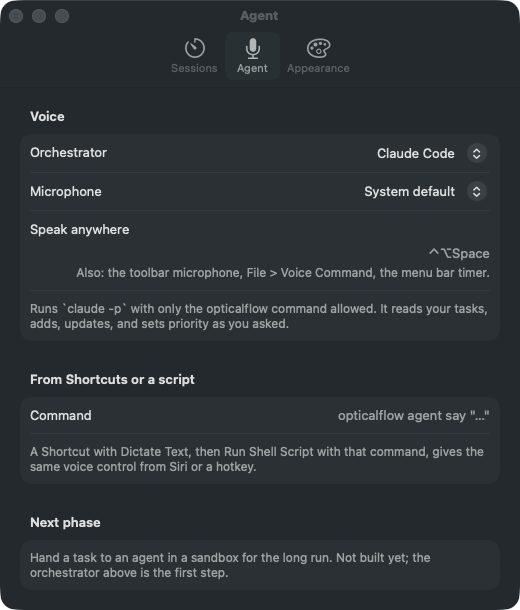
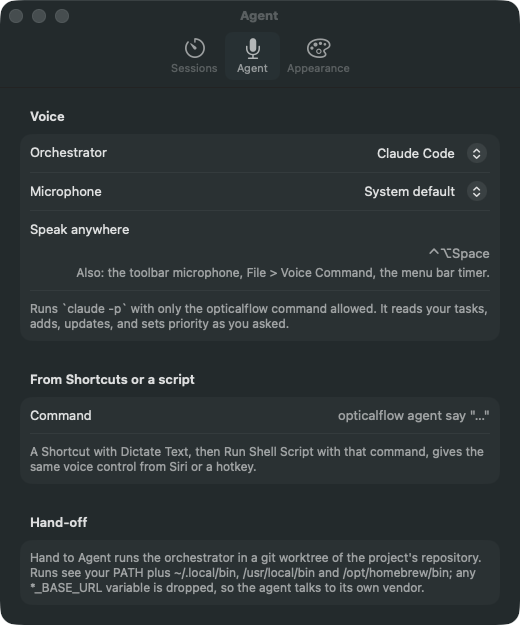
Agent runs talk to their own vendor: any *_BASE_URL exported for another tool is dropped; Settings > Agent describes the hand-off instead of promising it

diff --git a/Sources/OpticalFlow/VoiceAgent.swift b/Sources/OpticalFlow/VoiceAgent.swift
@@ -20,6 +20,15 @@ enum Orchestrator: String, CaseIterable, Identifiable {
         }
     }
 
+    /// What an agent run inherits: the app's environment with the usual tool folders on PATH, minus any
+    /// *_BASE_URL or *_API_BASE a shell exported for some other tool, so the agent talks to its own vendor.
+    static func environment(from base: [String: String] = ProcessInfo.processInfo.environment) -> [String: String] {
+        var env = base.filter { !($0.key.hasSuffix("_BASE_URL") || $0.key.hasSuffix("_API_BASE")) }
+        let home = FileManager.default.homeDirectoryForCurrentUser.path
+        env["PATH"] = [env["PATH"] ?? "/usr/bin:/bin", "\(home)/.local/bin", "/usr/local/bin", "/opt/homebrew/bin"].joined(separator: ":")
+        return env
+    }
+
     var blurb: String {
         switch self {
         case .builtin: "Understands add, complete, start, stop, priority, and notes. Anything else becomes a new task."
@@ -502,10 +511,7 @@ final class VoiceAgent {
         process.executableURL = URL(fileURLWithPath: path)
         process.arguments = job.isHandoff ? which.handoffArguments(prompt: prompt) : which.arguments(prompt: prompt, workdir: workdir)
         process.currentDirectoryURL = job.worktree ?? URL(fileURLWithPath: workdir)
-        var env = ProcessInfo.processInfo.environment
-        let home = FileManager.default.homeDirectoryForCurrentUser.path
-        env["PATH"] = [env["PATH"] ?? "/usr/bin:/bin", "\(home)/.local/bin", "/usr/local/bin", "/opt/homebrew/bin"].joined(separator: ":")
-        process.environment = env
+        process.environment = Orchestrator.environment()
         let out = Pipe(), err = Pipe()
         process.standardOutput = out
         process.standardError = err

diff --git a/Sources/OpticalFlow/SelfTest.swift b/Sources/OpticalFlow/SelfTest.swift
@@ -295,6 +295,10 @@ enum SelfTest {
         model.voice.attach(job)
         check("S-047 the reply is written on the touched task", aiTask.agentReply == "Done, it is urgent now." && aiTask.agentReplyAt != nil)
         check("S-047 finished jobs clear", { model.voice.clearFinishedJobs(); return model.voice.jobs.isEmpty }())
+        // S-051: an agent run never inherits another tool's API routing.
+        let agentEnv = Orchestrator.environment(from: ["ANTHROPIC_BASE_URL": "http://proxy", "OPENAI_BASE_URL": "http://proxy", "OPENAI_API_BASE": "x", "HOME": "/h", "PATH": "/usr/bin"])
+        check("S-051 base URLs are dropped and PATH gains the tool folders",
+              agentEnv.keys.sorted() == ["HOME", "PATH"] && agentEnv["PATH"]!.hasPrefix("/usr/bin:") && agentEnv["PATH"]!.hasSuffix("/opt/homebrew/bin"), "\(agentEnv)")
         model.delete(aiTask)
 
         // S-048: chapter markers while recording.

diff --git a/Sources/OpticalFlow/SettingsView.swift b/Sources/OpticalFlow/SettingsView.swift
@@ -138,8 +138,8 @@ struct AgentSettings: View {
                 .font(.callout)
                 .foregroundStyle(.secondary)
         }
-        Section("Next phase") {
-            Text("Hand a task to an agent in a sandbox for the long run. Not built yet; the orchestrator above is the first step.")
+        Section("Hand-off") {
+            Text("Hand to Agent runs the orchestrator in a git worktree of the project's repository. Runs see your PATH plus ~/.local/bin, /usr/local/bin and /opt/homebrew/bin; any *_BASE_URL variable is dropped, so the agent talks to its own vendor.")
                 .font(.callout)
                 .foregroundStyle(.secondary)
         }

diff --git a/docs/STORIES.md b/docs/STORIES.md
@@ -441,9 +441,9 @@ As the user, a Claude Code or Codex run started by the app talks to the vendor's
 Screens: settings-agent
 Depends: S-047
 Acceptance:
-- [self] the environment handed to the agent has no *_BASE_URL and no *_PROXY variable.
-UX: nothing visible; Settings > Agent gets one line saying which variables are dropped.
-Status: todo
+- [self] the environment handed to the agent has no *_BASE_URL or *_API_BASE variable; PATH gains the tool folders.
+UX: nothing visible; Settings > Agent's stale "Next phase" section becomes "Hand-off", one line on the worktree and the dropped variables. Proxy variables stay: a Mac behind a corporate proxy needs them to reach anything.
+Status: done
 
 ## M5 System
 ### S-020 Shortcuts and Apple Focus control
